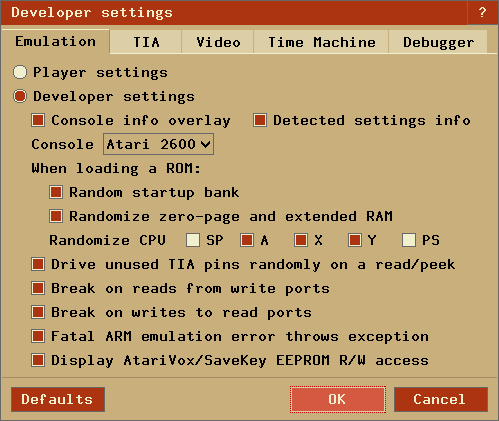
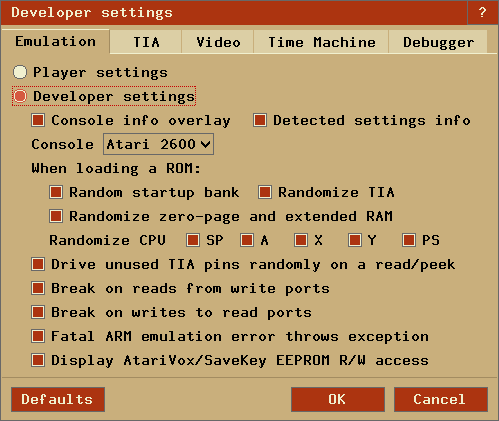
added doc for TIA randomization (see #126)

diff --git a/docs/index.html b/docs/index.html
@@ -3567,6 +3567,9 @@
       <td><pre>-&lt;plr.|dev.&gt;bankrandom &lt;1|0&gt;</pre></td>
       <td>On reset, randomize the startup bank (only for selected bankswitch types).</td>
     </tr><tr>
+      <td><pre>-&lt;plr.|dev.&gt;tiarandom &lt;1|0&gt;</pre></td>
+      <td>On reset, randomize the TIA registers.</td>
+    </tr><tr>
       <td><pre>-&lt;plr.|dev.&gt;ramrandom &lt;1|0&gt;</pre></td>
       <td>On reset, either randomize all RAM content, or initialize with zero (console = 2600)/startup values (console = 7800) instead.</td>
     </tr><tr>
@@ -4323,15 +4326,57 @@
       <td>&nbsp;&nbsp;&nbsp;&nbsp;</td>
       <td valign="top">
         <table border="1" cellpadding="4">
-          <tr><th>Item</th><th>Brief description</th><th>For more information,<br>see <a href="#CommandLine">Command Line</a></th></tr>
-          <tr><td>Player/Developer settings</td><td>Selects the active settings set</td><td>-dev.settings</td></tr>
-          <tr><td>Console info overlay</td><td>Overlay console info on the TIA image during emulation.</td><td>-plr.stats<br/>-dev.stats</td></tr>
-          <tr><td>Detected settings info</td><td>Display detected settings when a ROM is loaded.</td><td>-plr.detectedinfo<br/>-dev.detectedinfo</td></tr>
-          <tr><td>Console</td><td>Select the console type, this affects Color/B&W/Pause key emulation and zero-page RAM initialization</td><td>-plr.console <br/>-dev.console</td></tr>
-          <tr><td>Random startup bank</td><td>Randomize the startup bank (only for selected bankswitch types)</td><td>-plr.bankrandom<br/>-dev.bankrandom</td></tr>
-          <tr><td>Randomize zero-page ...</td><td>When loading a ROM, randomize all RAM content instead of initializing with all zeroes (for 'Console' = 'Atari 2600' only)</td><td>-plr.ramrandom<br/>-dev.ramrandom</td></tr>
-          <tr><td>Randomize CPU</td><td>When loading a ROM, randomize the content of the specified CPU registers</td><td>-plr.cpurandom<br/>-dev.cpurandom</td></tr>
-          <tr><td>Drive unused TIA pins ...</td><td>Unused TIA pins are read random instead of the last databus values</td><td>-dev.tiadriven</td></tr>
+          <tr>
+            <th>Item</th>
+            <th>Brief description</th>
+            <th>For more information,<br>see <a href="#CommandLine">Command Line</a></th>
+          </tr>
+          <tr>
+            <td>Player/Developer settings</td>
+            <td>Selects the active settings set</td>
+            <td>-dev.settings</td>
+          </tr>
+          <tr>
+            <td>Console info overlay</td>
+            <td>Overlay console info on the TIA image during emulation.</td>
+            <td>-plr.stats<br/>-dev.stats</td></tr>
+          <tr>
+            <td>Detected settings info</td>
+            <td>Display detected settings when a ROM is loaded.</td>
+            <td>-plr.detectedinfo<br/>-dev.detectedinfo</td>
+          </tr>
+          <tr>
+            <td>Console</td>
+            <td>Select the console type, this affects Color/B&W/Pause key
+              emulation and zero-page RAM initialization</td>
+            <td>-plr.console <br/>-dev.console</td>
+          </tr>
+          <tr>
+            <td>Random startup bank</td>
+            <td>Randomize the startup bank (only for selected bankswitch types)</td>
+            <td>-plr.bankrandom<br/>-dev.bankrandom</td>
+          </tr>
+          <tr>
+            <td>Randomize TIA</td>
+            <td>Randomizes TIA registers on the startup</td>
+            <td>-plr.tiarandom<br/>-dev.tiarandom</td>
+          </tr>
+          <tr>
+            <td>Randomize zero-page ...</td>
+            <td>When loading a ROM, randomize all RAM content instead of
+              initializing with all zeroes (for 'Console' = 'Atari 2600' only)</td>
+            <td>-plr.ramrandom<br/>-dev.ramrandom</td>
+          </tr>
+          <tr>
+            <td>Randomize CPU</td>
+            <td>When loading a ROM, randomize the content of the specified CPU registers</td>
+            <td>-plr.cpurandom<br/>-dev.cpurandom</td>
+          </tr>
+          <tr>
+            <td>Drive unused TIA pins ...</td>
+            <td>Unused TIA pins are read random instead of the last databus values</td>
+            <td>-dev.tiadriven</td>
+          </tr>
           <tr>
             <td>Break on reads from ...</td>
             <td>A read from a write port interrupts emulation and the debugger is entered.</td>
@@ -4347,7 +4392,11 @@
             <td>Thumb ARM emulation throws an exception and enters the debugger on fatal errors</td>
             <td><span style="white-space:nowrap">-dev.thumb.trapfatal</span></td>
           </tr>
-          <tr><td>Display AtariVox...</td><td>Display a message when the AtariVox/SaveKey EEPROM is read or written</td><td>-plr.eepromaccess<br/>-dev.eepromaccess</td></tr>
+          <tr>
+            <td>Display AtariVox...</td>
+            <td>Display a message when the AtariVox/SaveKey EEPROM is read or written</td>
+            <td>-plr.eepromaccess<br/>-dev.eepromaccess</td>
+          </tr>
         </table>
       </td>
     </tr>
